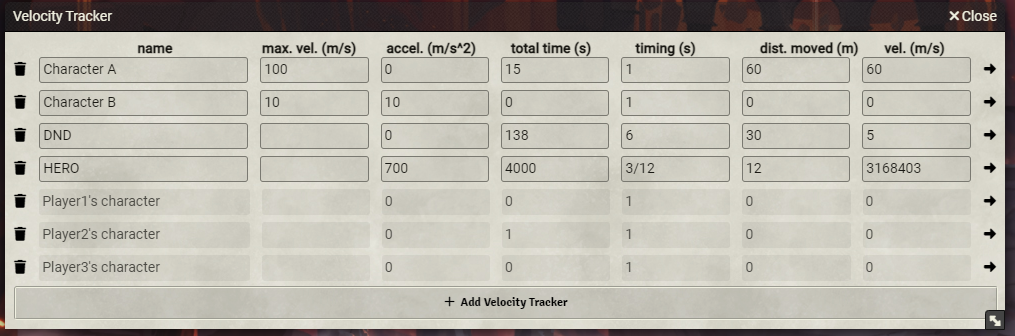
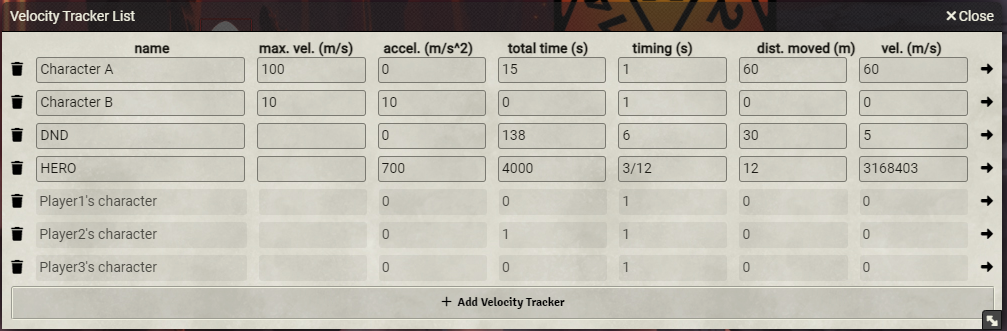
Preparing for release

diff --git a/scripts/main.js b/scripts/main.js
@@ -214,7 +214,7 @@ class VelocityTracker extends FormApplication {
             width: 1000,
             id: 'velocity-tracker',
             template: VelocityTrackerList.TEMPLATES.VELOCITYTRACKERLIST,
-            title: 'Velocity Tracker',
+            title: "VELOCITY-TRACKER.title",
             userId: game.userId,
             closeOnSubmit: false, // do not close when submitted
             submitOnChange: true, // submit when any input changes

diff --git a/README.md b/README.md
@@ -7,7 +7,7 @@ a system-agnostic module that allows players to track velocities for a number of
   <img src="https://github.com/dmdorman/foundryvtt-velocity-tracker/blob/main/images/settings.PNG?raw=true" />
 </p>
   
-"Allow GM to see all velocity trackers?" : On by default, this option allows GMs to see velocity trackers defined by the players. However, this is not a live feed to players' velocity trackers. To see updates on the players' velocity trackers close and re-open the velocity tracker.
+"Allow GM to see all velocity trackers?" : On by default, this option allows GMs to see velocity trackers defined by the players. However, this is not a live feed to players' velocity trackers. To see updates on the players' velocity trackers close and re-open the 'Velocity Tracker List'.
 
 "Distance Units" / "Time Units" : what are the units of the system your're using? Velocity will be shown as "Distnace Unit / Time Unit". Acceleration will be shown as "Distance Unit / Time Unit ^2)
 
@@ -20,15 +20,15 @@ a system-agnostic module that allows players to track velocities for a number of
   <img src="https://github.com/dmdorman/foundryvtt-velocity-tracker/blob/main/images/how-to-open.PNG?raw=true" />
 </p>
 
-For both GMs and Players, to open Velocity Tracker click the 'Right Arrow' icon on the left hand side of the screen.
+For both GMs and Players, to open the 'Velocity Tracker List' click the 'Right Arrow' icon on the left hand side of the screen.
 
-A windows should pop up like the image below. This is the Velocity Tracker List.
+A windows should pop up like the image below. This is the 'Velocity Tracker List'.
 <p align="center">
   <img src="https://github.com/dmdorman/foundryvtt-velocity-tracker/blob/main/images/velocity-tracker-gm-view.PNG?raw=true" />
 </p>
 
 ### Buttons
-'+ Add Velocity Tracker' - adds a Velocity Tracker to the Velocity Tracker List, this will show up as a new row populated with Velocity Tracker defaults
+'+ Add Velocity Tracker' - adds a Velocity Tracker to the 'Velocity Tracker List', this will show up as a new row populated with Velocity Tracker defaults
 
 'Trash Can' - this will delete the corresponding Velocity Tracker
 
@@ -36,27 +36,27 @@ A windows should pop up like the image below. This is the Velocity Tracker List.
 
 
 ### Fields
-<b>name</b> - the name of whatever it is you want to track
+<b>name</b> - The name of whatever it is you want to track
 
-<b>max. vel. (maximum velocity)</b> - how fast can your character/vehicle/etc go? Also useful for setting a terminal velocity for falling objects
+<b>max. vel. (maximum velocity)</b> - How fast can your character go? Also useful for setting a terminal velocity for falling objects
 
-<b>accel. (acceleration)</b> - how fast can your character/vehicle/etc get up to max velocity? This is heavily correlated with total time, so depending on what you're tracking you may want to set 'total time' to 0 whenever acceleration changes or start a new Velocity Tracker
+<b>accel. (acceleration)</b> - How fast can your character get up to max velocity? This is heavily correlated with total time, so depending on what you're tracking you may want to set 'total time' to 0 whenever acceleration changes or start a new Velocity Tracker
 
-<b>total time</b> - how much time has passed since movement began? This is heavily correlated with acceleration. Total time will increase by the amount set in 'timing' when the right arrow on the right hand side for the associated Velocity Tracker is clicked
+<b>total time</b> - How much time has passed since movement began? This is heavily correlated with acceleration. Total time will increase by the amount set in 'timing' when the right arrow on the right hand side for the associated Velocity Tracker is clicked
 
 <b>timing</b>
-  - how long is a round? For example D&D has 6 second rounds so in this case put "6" for timing.
+  - How long is a round? For example D&D has 6 second rounds so in this case put "6" for timing.
   OR 
-  - how many actions does a character/vehicle/etc have in a timeframe? In some systems not all characters act at same time. In that case put (# of actions) / (# how       long is a full round). For example a character who acts 3 times in a 12 second round should put "3/12" for timing.
+  - How many actions does a character have in a timeframe? In some systems not all characters act at same time. In that case put (# of actions) / (# how long is a full round). For example a character who acts 3 times in a 12 second round should put "3/12" for timing.
 
-<b>dist. moved (distance moved)</b> - how far did the character/vehicle/etc move this turn/over the course of the time defined in 'timing'?
+<b>dist. moved (distance moved)</b> - How far did the character move this turn/over the course of the time defined in 'timing'?
 
-<b>vel. (velocity)</b> - velocity will be determined by all the other fields and will update once the 'Right Arrow' is clicked however it can be edited
+<b>vel. (velocity)</b> - Velocity will be determined by all the other fields and will update once the 'Right Arrow' is clicked. However, it can be edited manually
 
 
 ### GM view
 
-If "Allow GM to see all velocity trackers?" was enabled a GM will see something similar to the image below when they open up their Velocity Tracker List. The Velocity Tracker fields for another players' Velocity Tracker is not editable. However, the GM can delete other players' Velocity Trackers. 
+If "Allow GM to see all velocity trackers?" was enabled a GM will see something similar to the image below when they open up their 'Velocity Tracker List'. The Velocity Tracker fields for another players' Velocity Tracker is not editable. However, the GM can delete other players' Velocity Trackers. 
 
 <p align="center">
   <img src="https://github.com/dmdorman/foundryvtt-velocity-tracker/blob/main/images/velocity-tracker.PNG?raw=true" />
